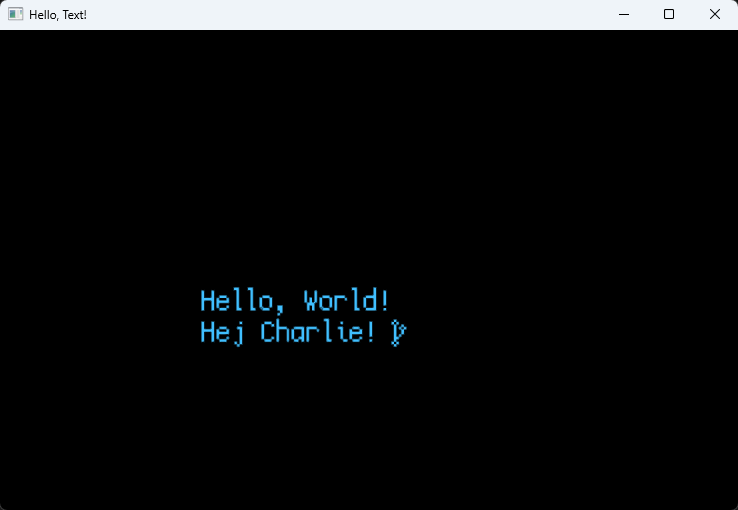
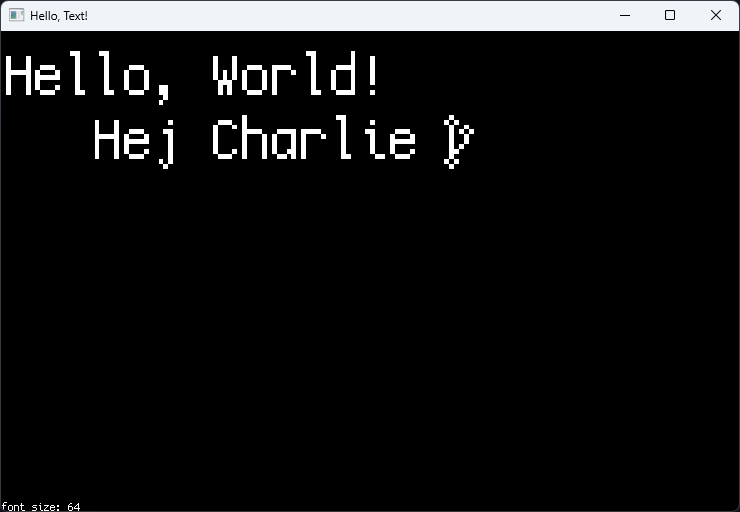
Skip rendering newline
Update preview.png

diff --git a/hellotext.cpp b/hellotext.cpp
@@ -721,6 +721,7 @@ auto main([[maybe_unused]]int argc, [[maybe_unused]]char const* argv[]) -> int {
             if (code == '\n') {
                 pos.x = 0.0f;
                 pos.y -= float(previous_height >> 6);
+                continue;
             }
 
             auto it = chars_map.find(code);
@@ -787,7 +788,7 @@ auto main([[maybe_unused]]int argc, [[maybe_unused]]char const* argv[]) -> int {
         }
     });
 
-    text_buffer = utf8::utf8to32(std::string{"Hello, World!"});
+    text_buffer = utf8::utf8to32(std::string{"Hello, World!\n   Hej Charlie \uf126"});
 
     auto is_running = true;
     while(is_running) {
